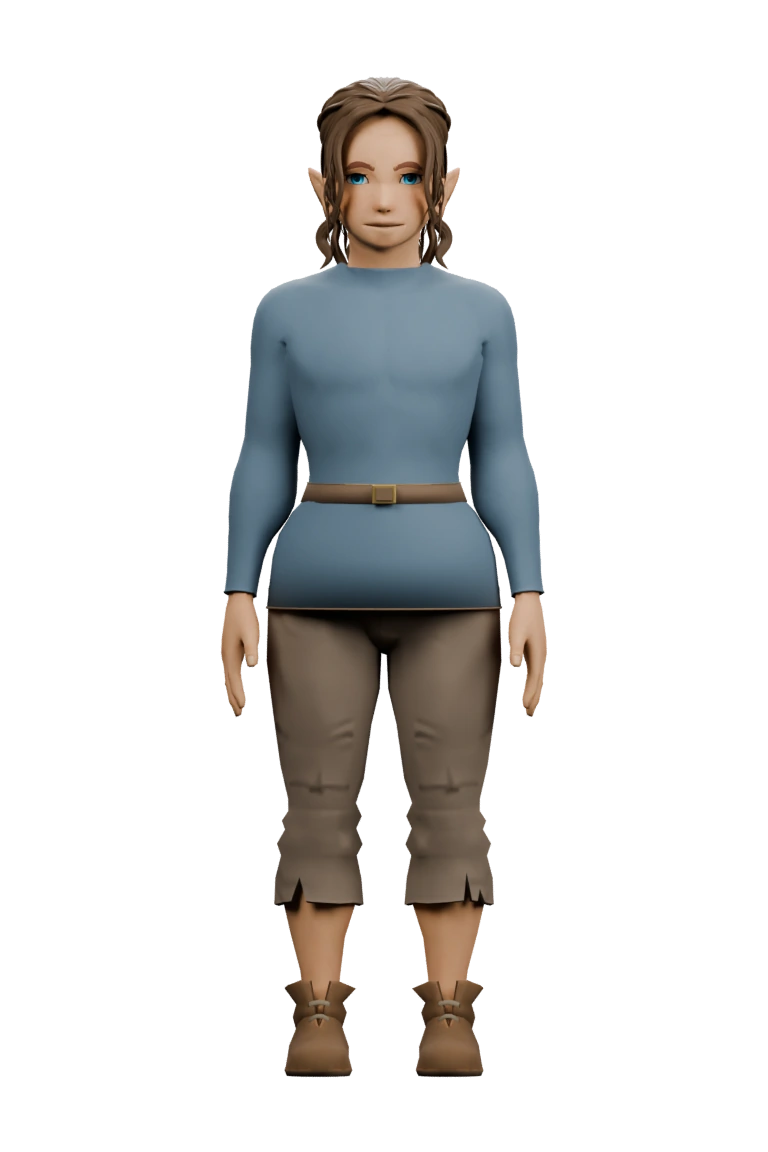
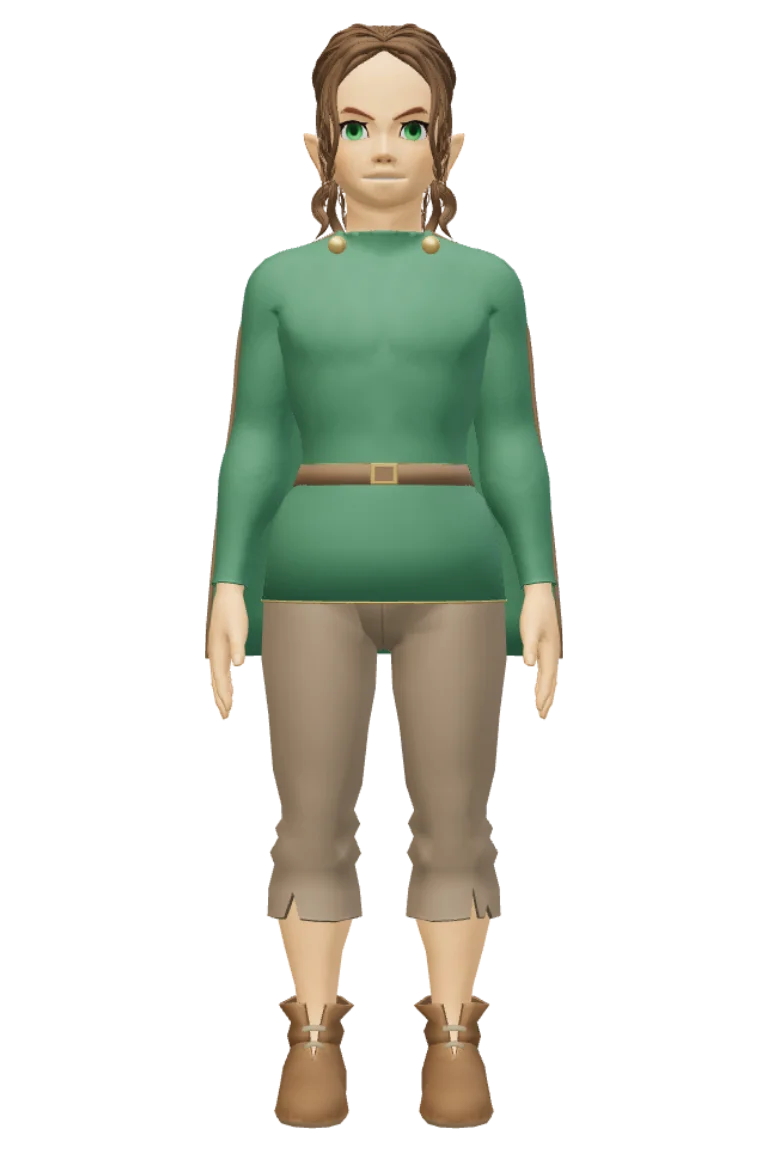
fix(characters): render baked fallback portraits from the stylized base
The fallback portraits were still rendered from the old v7 base, so the previous character flashed on the cards before the live portrait replaced it. Regenerate both portraits from the stylized catalogue, tie PORTRAIT_REVISION to the live base and guard the match with a test.

Changed region(s): [[0.25, 0.0, 0.75, 1.0]]

diff --git a/docs/items-3d/README.md b/docs/items-3d/README.md
@@ -20,6 +20,10 @@ STYLIZED=1 blender -b --factory-startup --python-exit-code 1 --python tools/buil
 
 L'atelier autonome peut inspecter n'importe quelle base : `items-3d.html?model=/assets/character-stylized/catalogue.glb`.
 
+Les **portraits de secours** (`previews/portraits/*.webp`) sont rendus depuis cette
+même base stylisée, et `PORTRAIT_REVISION` suit `BASE_CATALOGUE_REVISION` : l'ancien
+personnage ne peut donc plus apparaître avant le rendu live.
+
 ### Détails
 
 La passe `catalogue-v7-approved-bases` intègre les visages et les silhouettes
